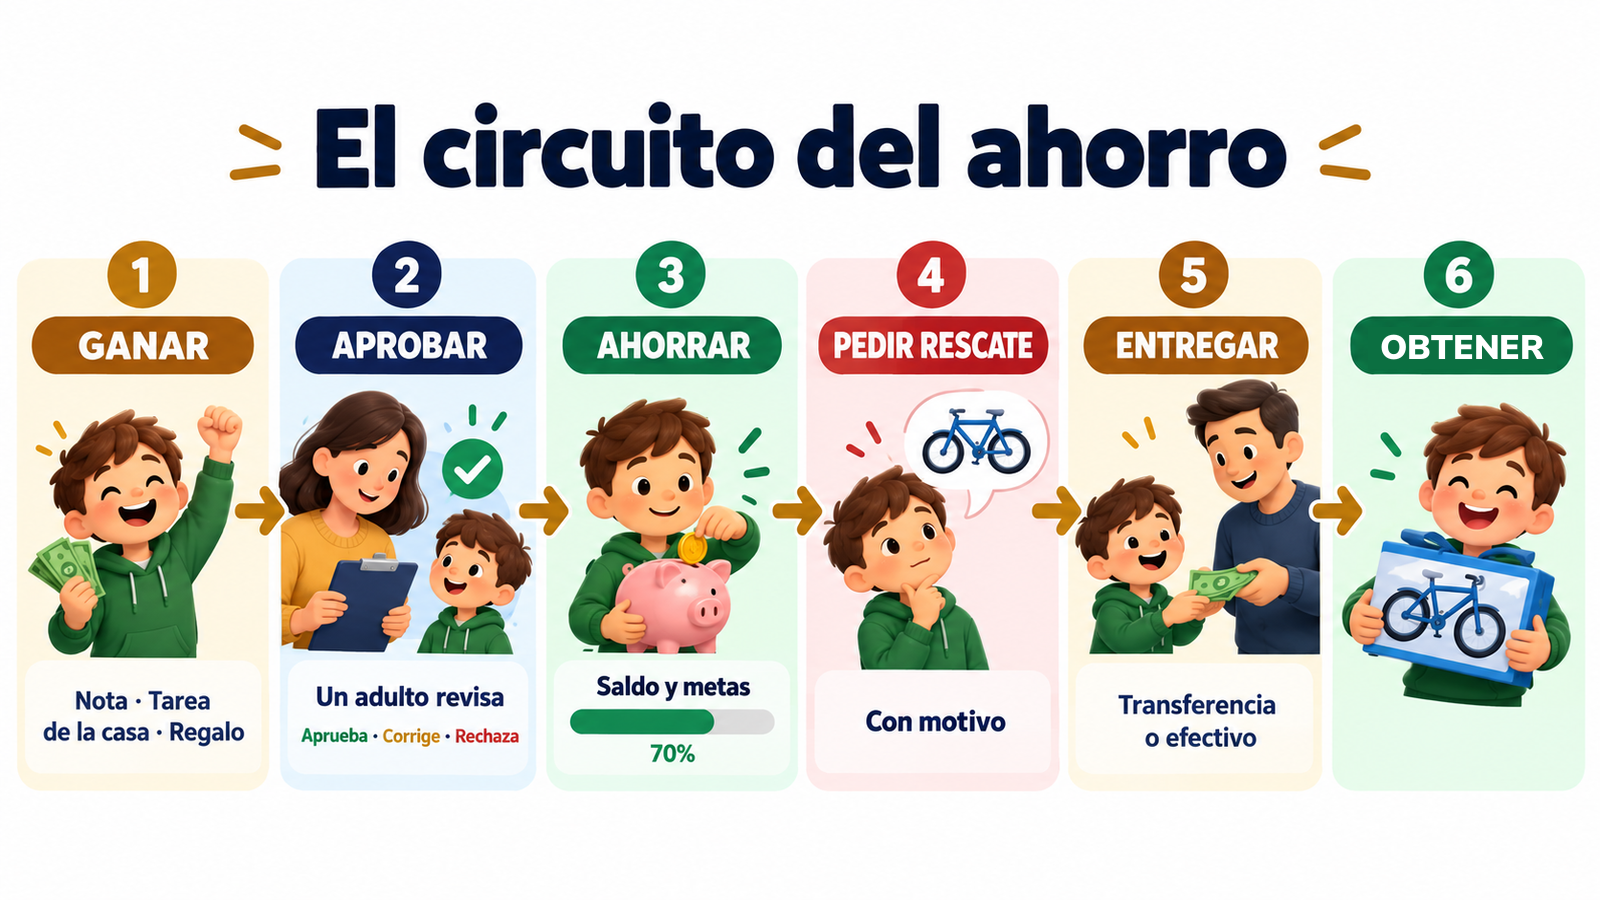
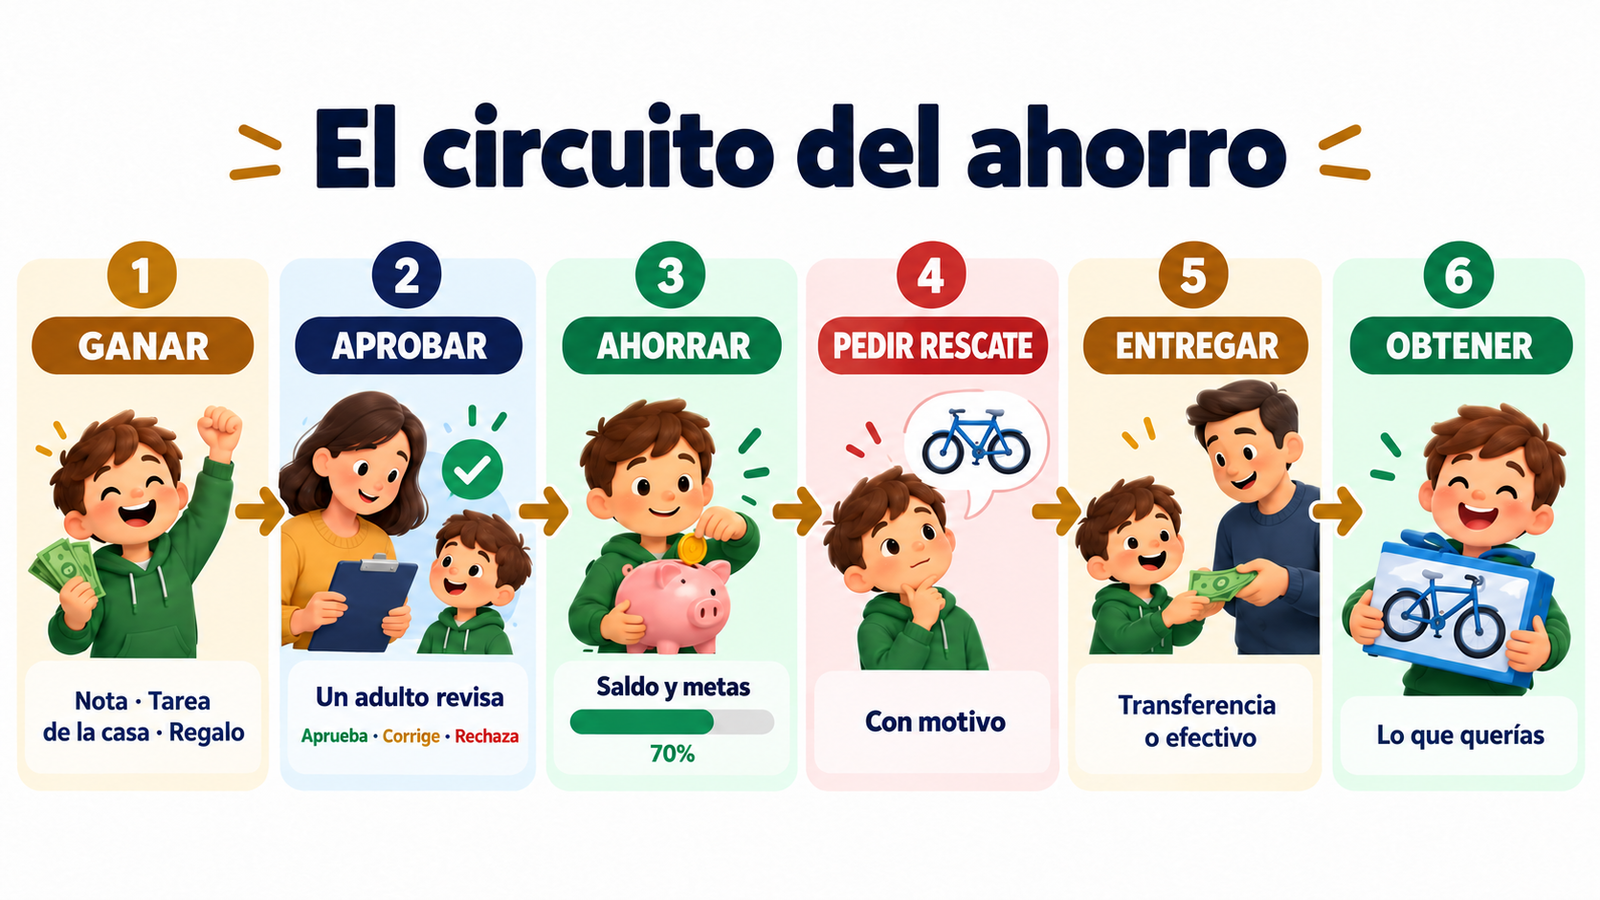
Capturas reales del sitio (con miniaturas), dibujos corregidos

diff --git a/README.md b/README.md
@@ -19,7 +19,16 @@ Sitio web propio (PHP + MariaDB) con estética de plataforma de trading, pensado
 
 ## Cómo se ve
 
-Tablero de un hijo/a (ejemplo con datos ficticios): saldo, gráfico del mes, movimientos con su estado y una meta con barra de avance.
+Capturas del sitio funcionando, con usuarios y movimientos **ficticios** (Ana, Beto y Tutor). **Hacé clic en una miniatura para verla en tamaño completo.**
+
+<table>
+<tr><td align="center" valign="top"><a href="docs/screenshots/01-ingreso.png"><img src="docs/screenshots/thumbs/01-ingreso.jpg" alt="Ingreso: nombre y PIN de 6 dígitos" width="280"></a><br><sub>Ingreso: nombre y PIN de 6 dígitos</sub></td><td align="center" valign="top"><a href="docs/screenshots/02-recuperacion.png"><img src="docs/screenshots/thumbs/02-recuperacion.jpg" alt="Recuperación del PIN por mail" width="280"></a><br><sub>Recuperación del PIN por mail</sub></td><td align="center" valign="top"><a href="docs/screenshots/03-tablero-hijo.png"><img src="docs/screenshots/thumbs/03-tablero-hijo.jpg" alt="Tablero del hijo/a: saldo, gráfico y movimientos" width="280"></a><br><sub>Tablero del hijo/a: saldo, gráfico y movimientos</sub></td></tr>
+<tr><td align="center" valign="top"><a href="docs/screenshots/04-cargar-logro.png"><img src="docs/screenshots/thumbs/04-cargar-logro.jpg" alt="Cargar una nota con su premio" width="280"></a><br><sub>Cargar una nota con su premio</sub></td><td align="center" valign="top"><a href="docs/screenshots/05-metas-rescate.png"><img src="docs/screenshots/thumbs/05-metas-rescate.jpg" alt="Metas con barra de avance y pedido de rescate" width="280"></a><br><sub>Metas con barra de avance y pedido de rescate</sub></td><td align="center" valign="top"><a href="docs/screenshots/06-adulto-pendientes.png"><img src="docs/screenshots/thumbs/06-adulto-pendientes.jpg" alt="Adulto: aprobar, rechazar o corregir" width="280"></a><br><sub>Adulto: aprobar, rechazar o corregir</sub></td></tr>
+<tr><td align="center" valign="top"><a href="docs/screenshots/07-adulto-resumen.png"><img src="docs/screenshots/thumbs/07-adulto-resumen.jpg" alt="Adulto: resumen de saldos" width="280"></a><br><sub>Adulto: resumen de saldos</sub></td><td align="center" valign="top"><a href="docs/screenshots/08-adulto-accesos.png"><img src="docs/screenshots/thumbs/08-adulto-accesos.jpg" alt="Adulto: registro de ingresos" width="280"></a><br><sub>Adulto: registro de ingresos</sub></td><td align="center" valign="top"><a href="docs/screenshots/09-tablero-hijo-oscuro.png"><img src="docs/screenshots/thumbs/09-tablero-hijo-oscuro.jpg" alt="Tema oscuro" width="280"></a><br><sub>Tema oscuro</sub></td></tr>
+<tr><td align="center" valign="top"><a href="docs/screenshots/10-tablero-hijo-movil.png"><img src="docs/screenshots/thumbs/10-tablero-hijo-movil.jpg" alt="En el celular" width="240"></a><br><sub>En el celular</sub></td></tr>
+</table>
+
+Dibujo ilustrativo del tablero de un hijo/a:
 
 ![Tablero de ejemplo: saldo disponible, gráfico Este mes, últimos movimientos y meta Bicicleta al 65 %](docs/assets/04-grafico-saldo.png)
 
@@ -70,4 +79,4 @@ HTTPS, código y datos **fuera** de la carpeta web y recuperación del PIN por u
 
 - **Sí:** que el código es el de un sitio que usa una familia real, sin sus datos, nombres ni credenciales, y que pasa `php -l` en PHP 8.3.
 - **No:** que sea un producto listo para instalar con un clic, ni que sirva como servicio bancario. No hay pruebas automáticas en este
-  repositorio ni capturas reales (los dibujos son ilustrativos). Ver [`docs/limitations.md`](docs/limitations.md).
+  repositorio más pruebas visuales que estas capturas. Ver [`docs/limitations.md`](docs/limitations.md).

diff --git a/docs/how-it-works.md b/docs/how-it-works.md
@@ -9,6 +9,8 @@
 4. **Rescatar:** para usar el dinero pide un **rescate** con un motivo (también desde una meta). El monto queda reservado.
 5. **Entregar:** un adulto lo aprueba y lo marca como entregado, por transferencia o en efectivo. El **Efectivo** que el hijo/a tiene en mano se lleva aparte.
 
+Capturas (clic para agrandar): <a href="screenshots/03-tablero-hijo.png"><img src="screenshots/thumbs/03-tablero-hijo.jpg" alt="Tablero del hijo/a" width="320"></a> <a href="screenshots/04-cargar-logro.png"><img src="screenshots/thumbs/04-cargar-logro.jpg" alt="Cargar una nota" width="320"></a> <a href="screenshots/05-metas-rescate.png"><img src="screenshots/thumbs/05-metas-rescate.jpg" alt="Metas y rescate" width="320"></a> <a href="screenshots/06-adulto-pendientes.png"><img src="screenshots/thumbs/06-adulto-pendientes.jpg" alt="Pendientes del adulto" width="320"></a>
+
 ## Premios por nota (valores de ejemplo)
 
 La tabla `premios` define cuánto paga cada nota. El esquema trae estos valores iniciales, que se editan desde Configuración:

diff --git a/docs/limitations.md b/docs/limitations.md
@@ -1,7 +1,7 @@
 # Límites
 
 - **No hay pruebas automáticas en este repositorio.** El sitio se probó durante el desarrollo con usuarios ficticios, pero esa batería no se incluye.
-- **Las imágenes son ilustraciones con datos ficticios, no capturas del sitio en uso** (mostrarían datos de menores).
+- **Las capturas son de una copia de prueba con datos ficticios**, no del sitio en uso (mostrarían datos de menores). En alguna aparecen recuadros vacíos donde el navegador de captura no tenía fuente de emojis, y textos del navegador en inglés ("Choose File").
 - **La interfaz está en español** y los montos están pensados en pesos argentinos.
 - **No es un servicio bancario:** no mueve dinero ni valida pagos; los adultos entregan el dinero real y lo registran.
 - **Subida de fotos:** tiene límite por cuenta y por hora, pero falta una cuota total de disco, limpieza de fotos huérfanas y límite por IP.

diff --git a/docs/users.md b/docs/users.md
@@ -27,5 +27,7 @@ php src/herramientas/usuario.php desbloquear <nombre|ip>      # quita un bloqueo
 ## Primer ingreso
 El PIN provisorio activa `debe_cambiar`: hasta cambiarlo, el usuario no puede cargar notas, cambiar avatar ni usar el resto del sitio.
 
+Capturas (clic para agrandar): <a href="screenshots/07-adulto-resumen.png"><img src="screenshots/thumbs/07-adulto-resumen.jpg" alt="Resumen del adulto" width="320"></a> <a href="screenshots/08-adulto-accesos.png"><img src="screenshots/thumbs/08-adulto-accesos.jpg" alt="Registro de ingresos" width="320"></a>
+
 ## Qué ve cada rol
 Ver el cuadro de roles en el [README](../README.md#cómo-trabajan-los-adultos) y el detalle de las pantallas en [cómo funciona](how-it-works.md).

diff --git a/docs/recovery.md b/docs/recovery.md
@@ -19,4 +19,6 @@ Todos los usuarios, adultos incluidos, pueden recuperar su PIN por mail si tiene
 - Cabeceras de mail saneadas (sin saltos de línea) y puntos iniciales escapados en el cuerpo SMTP.
 - Si la persona no tiene mail, un adulto le pone un PIN provisorio desde la línea de comandos.
 
+Capturas (clic para agrandar): <a href="screenshots/02-recuperacion.png"><img src="screenshots/thumbs/02-recuperacion.jpg" alt="Pantalla de recuperación" width="320"></a>
+
 ![Flujos de ingreso y de recuperación del PIN](assets/02-login-y-recuperacion.png)

diff --git a/docs/login.md b/docs/login.md
@@ -47,4 +47,6 @@ dispositivo aproximado (navegador · sistema). Los adultos lo ven en su tablero.
 ## PIN provisorio
 Si un adulto pone un PIN con `usuario.php pin`, la cuenta queda con `debe_cambiar=1`: el usuario sólo puede **cambiar su PIN o salir** hasta elegir uno propio.
 
+Capturas (clic para agrandar): <a href="screenshots/01-ingreso.png"><img src="screenshots/thumbs/01-ingreso.jpg" alt="Pantalla de ingreso" width="320"></a>
+
 ![Flujos de ingreso y de recuperación del PIN](assets/02-login-y-recuperacion.png)
